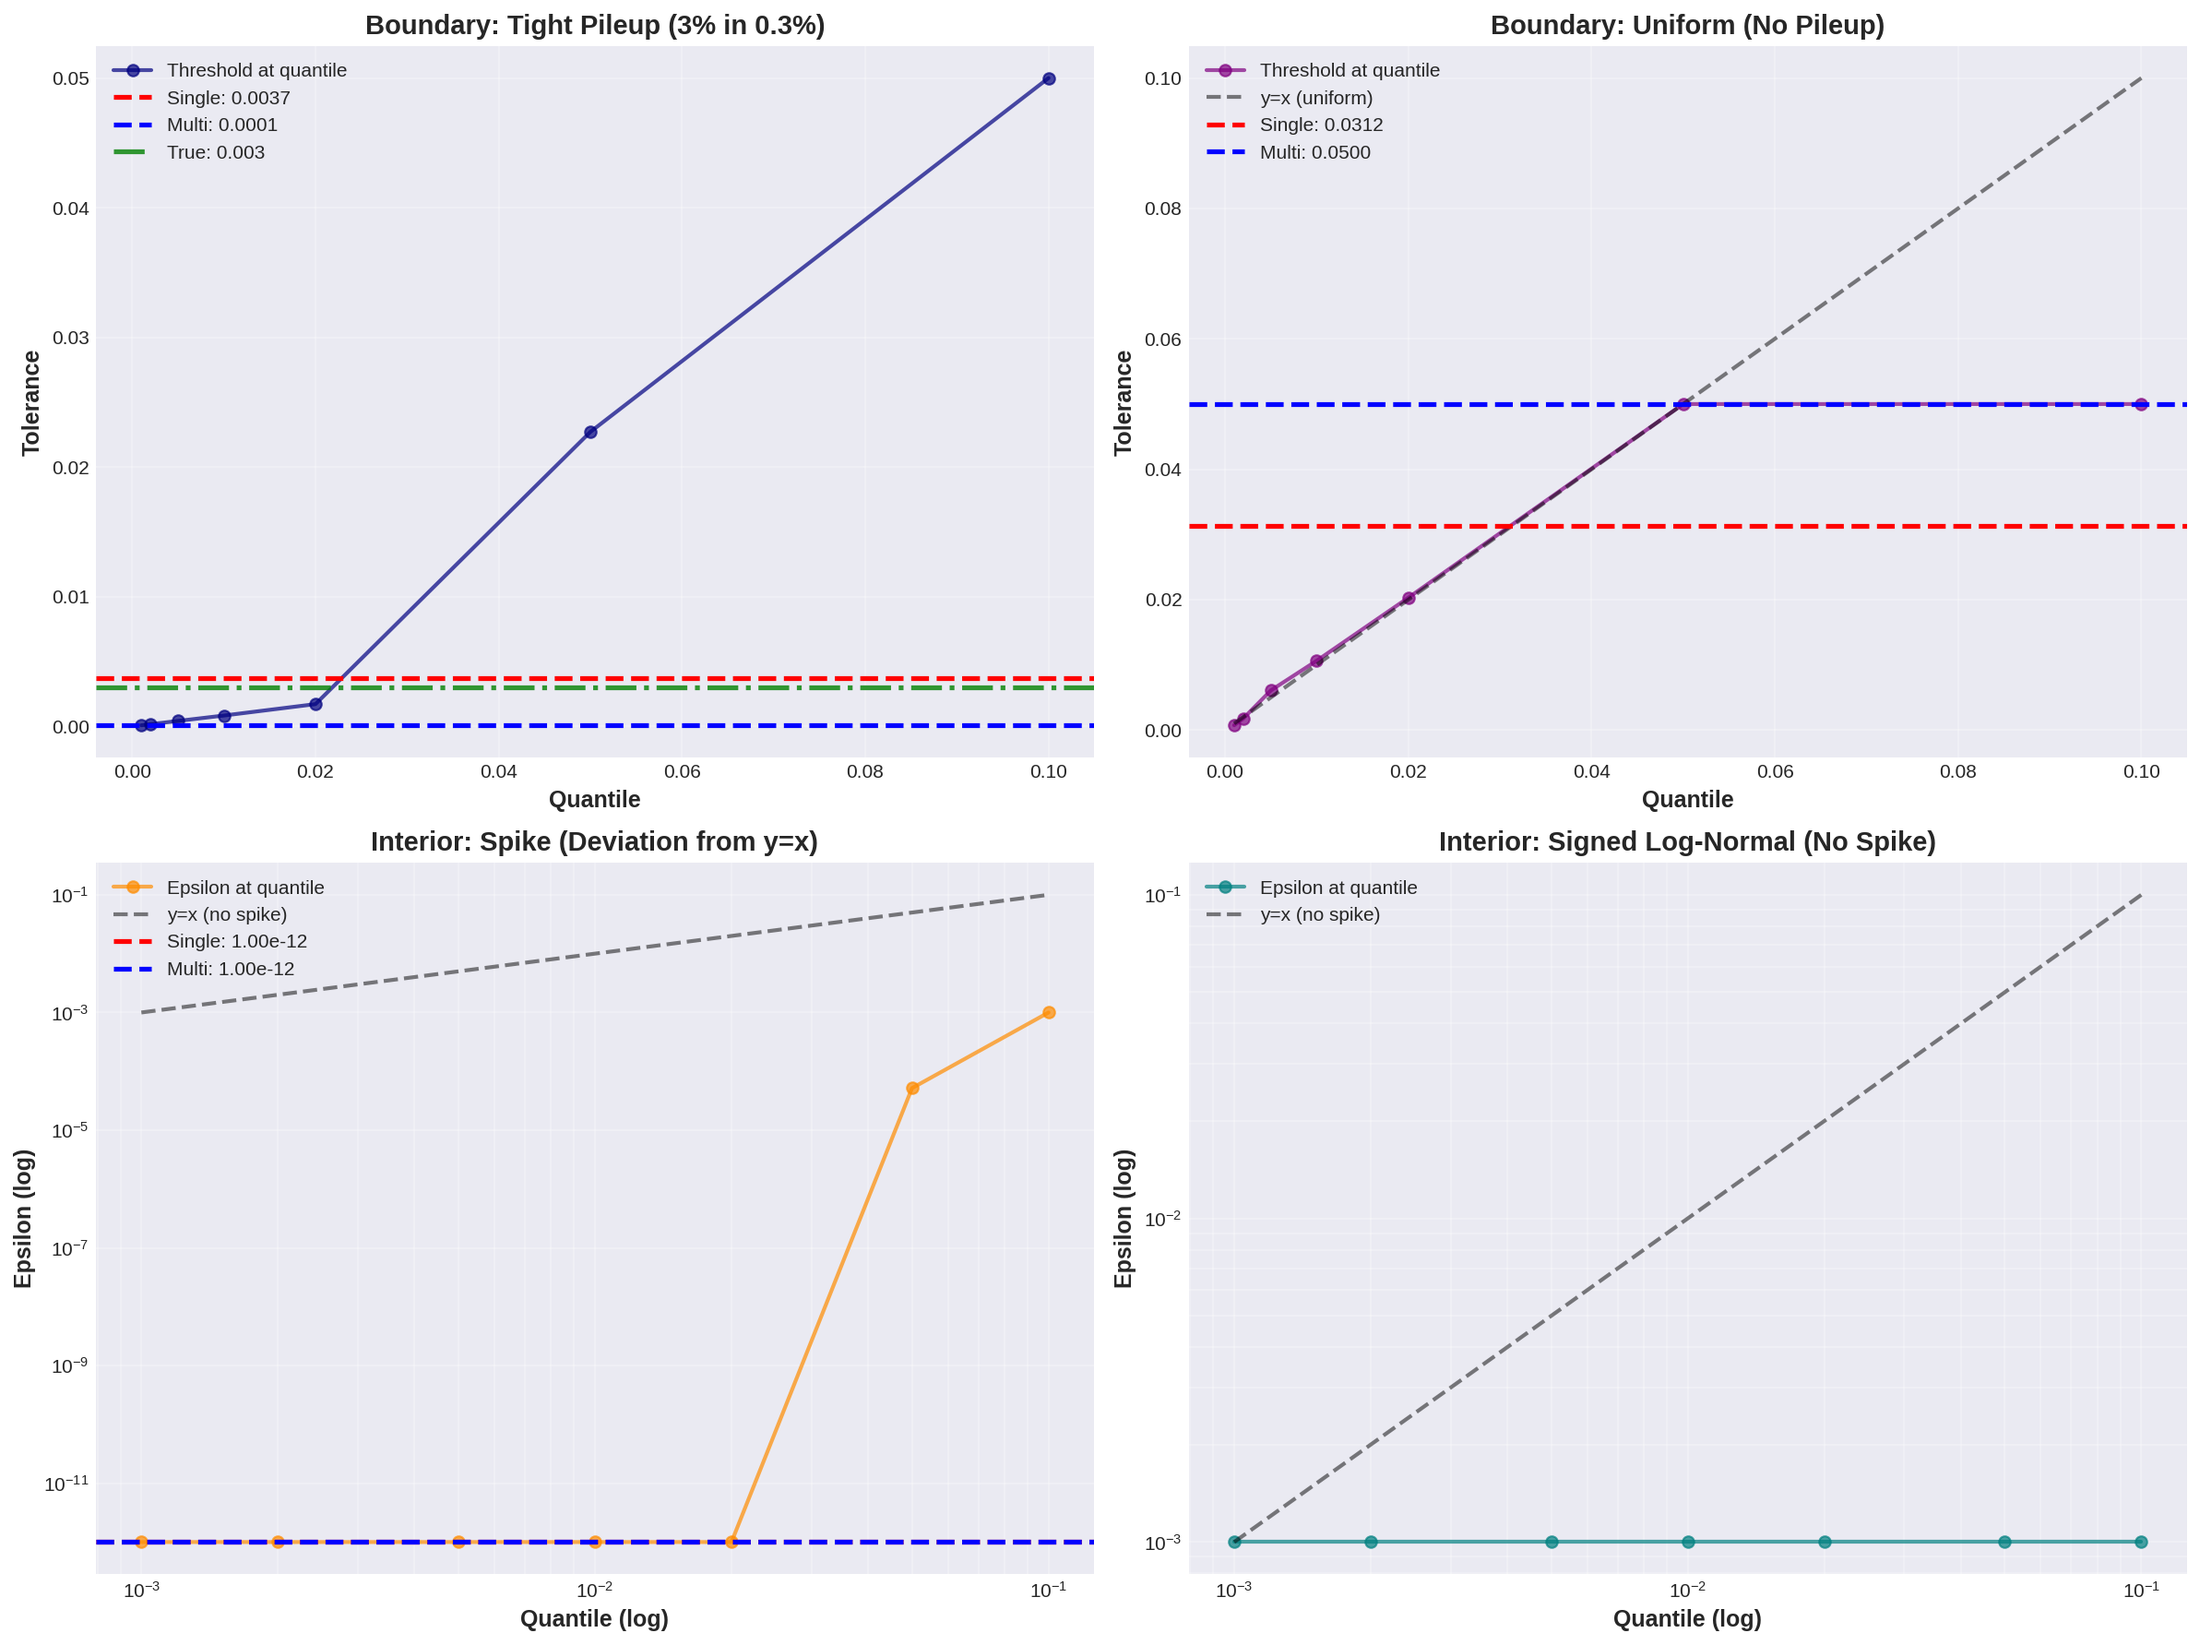
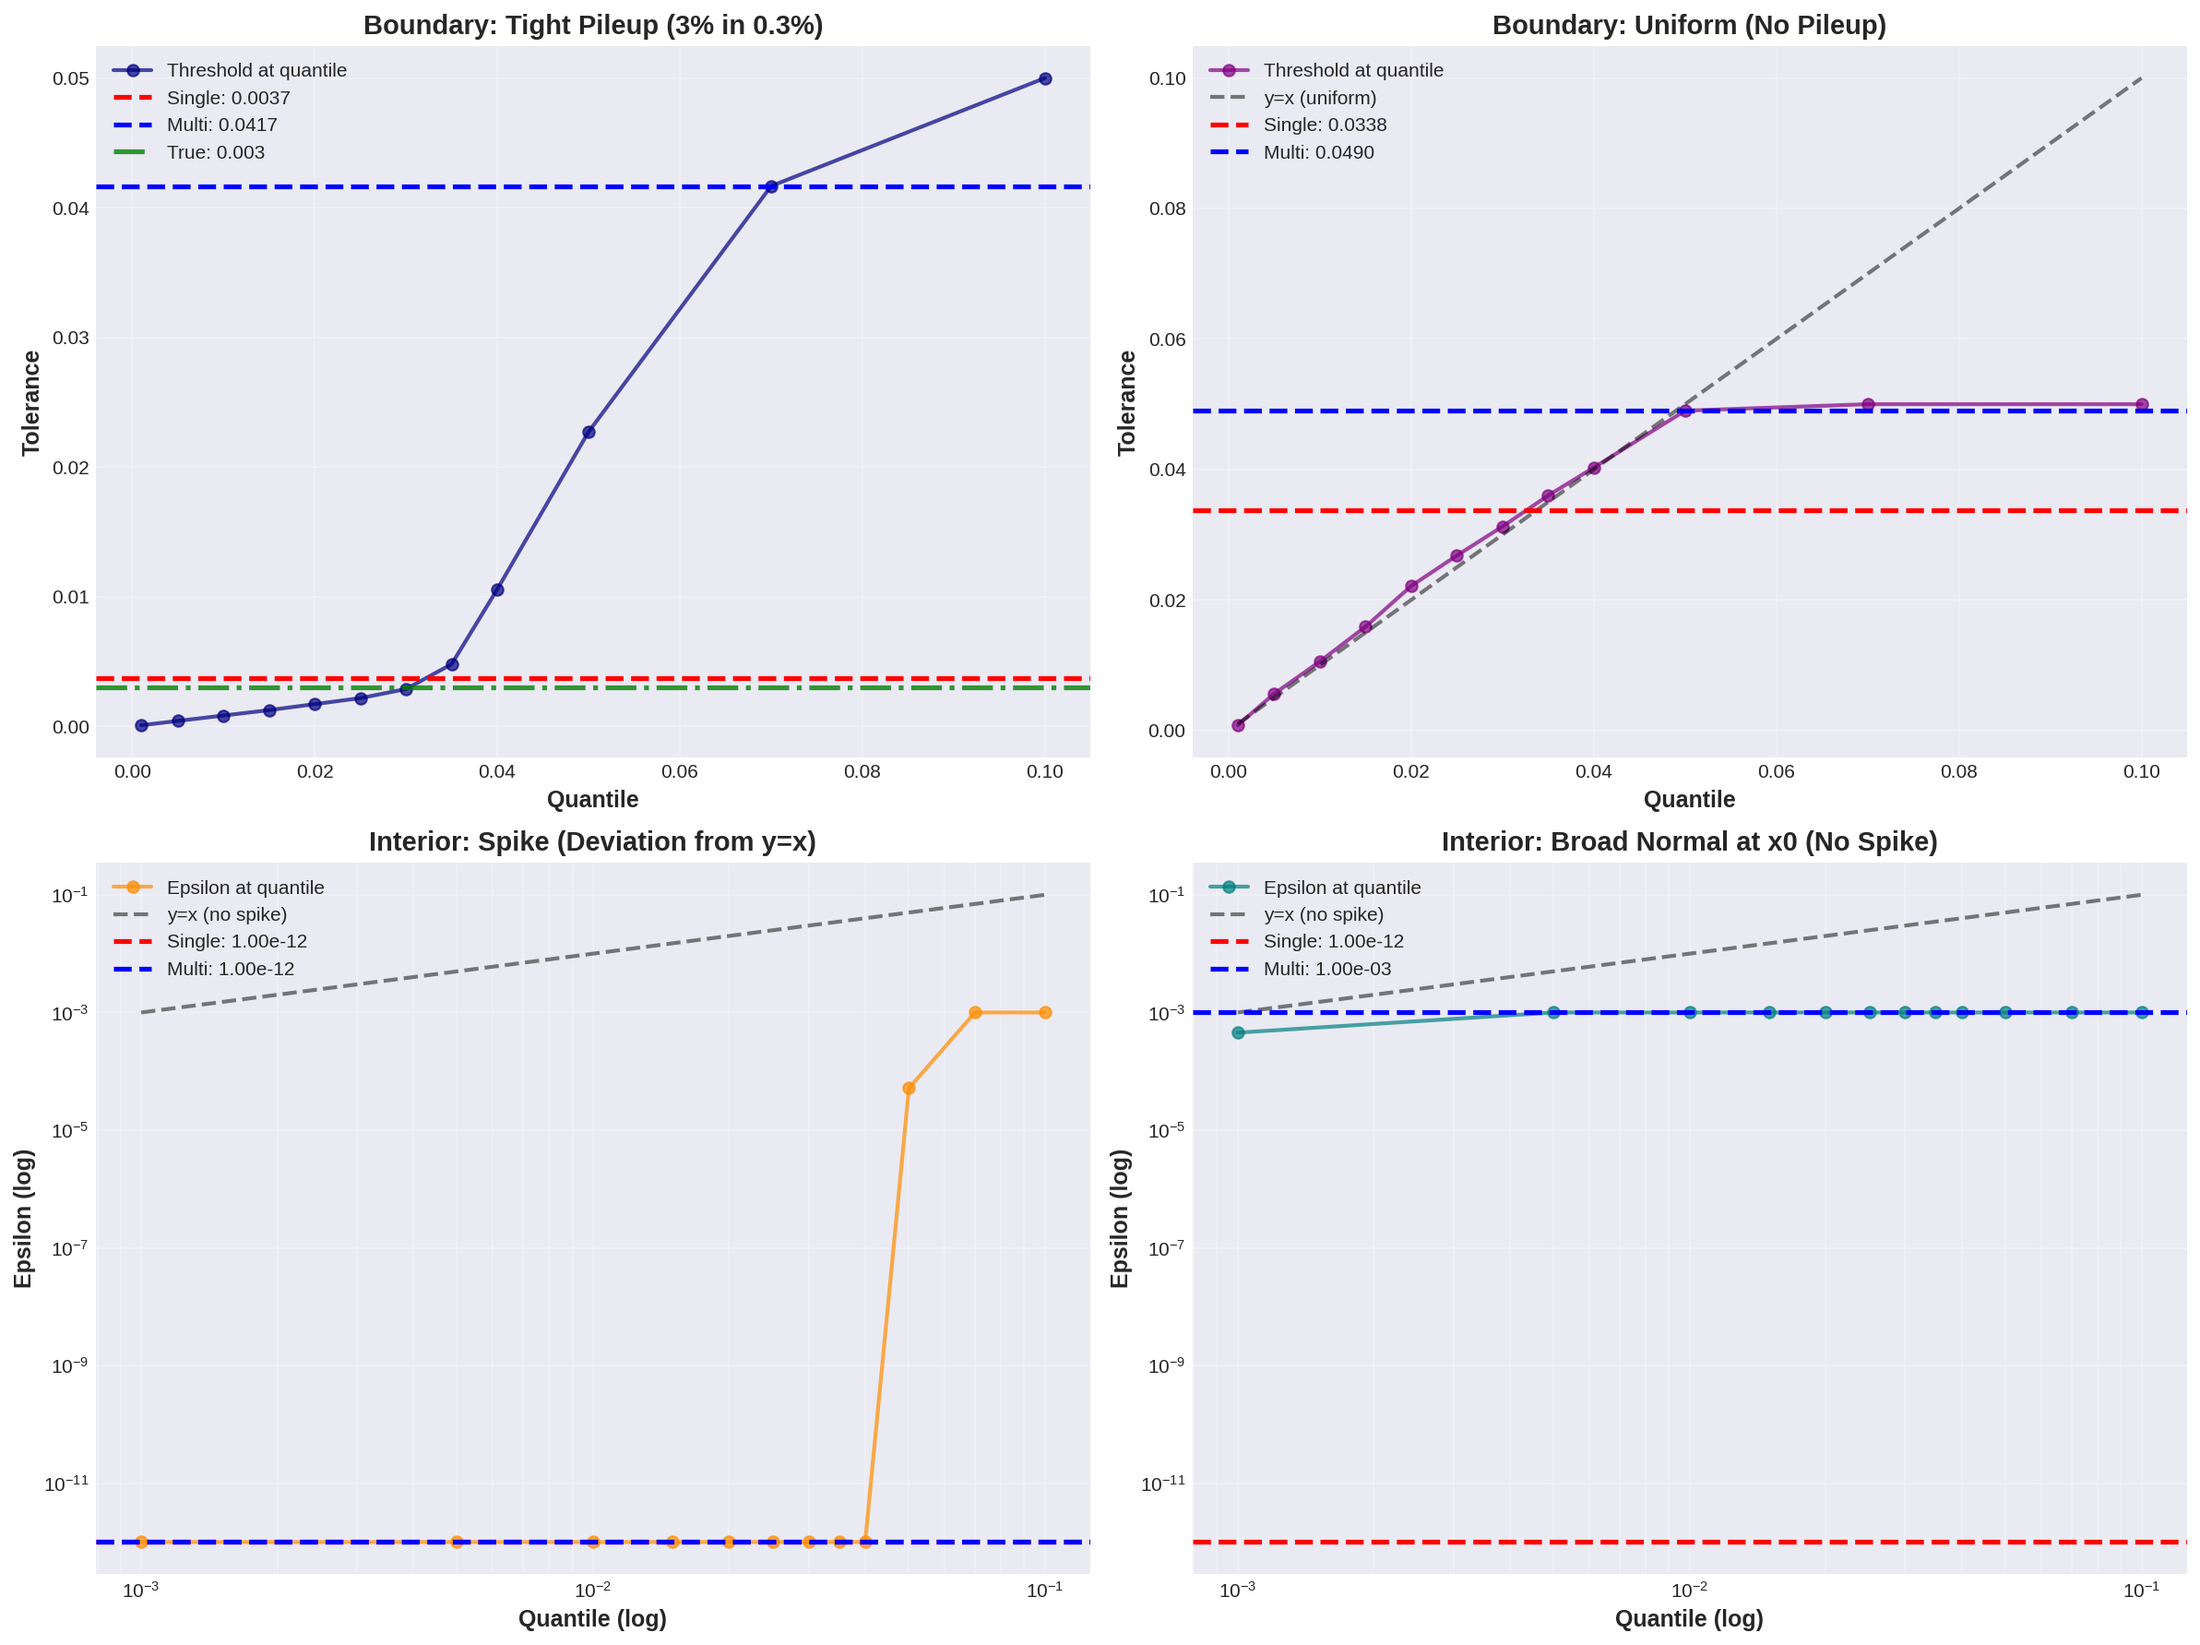
chore(validation): quantile-based threshold approach fails validation
Fixed POC bugs and re-validated multi-curve quantile approach:
- Fixed quantile grid density (12 points vs 7, covering structural breaks)
- Fixed broad normal test case (centered at x0, not bimodal)
- Added distribution visualization sanity checks

Results: 2/4 tests pass, approach fundamentally flawed
- ✓ Uniform control: ratio=0.956 ≈ 1.0 (PASS)
- ✓ Interior spike: ratio=2.110e-03 << 1 (PASS)
- ✗ Tight pileup: multi-curve 55× worse than single (3.87% vs 0.07% error)
- ✗ Broad pileup: multi-curve 2.2× worse (4.97% vs 2.25% error)
- ✗ Broad normal: ratio=0.087 fails classification threshold

Root cause: Elbow in (quantile, threshold) space doesn't map to pileup
width. Recommendation: DO NOT PROCEED with this approach.

diff --git a/notebooks/validate_quantile_approach.py b/notebooks/validate_quantile_approach.py
@@ -63,7 +63,8 @@ Tests for detecting boundary pileup using quantile analysis.
 
 # %% Common boundary test configuration
 GRID_BOUNDARY = np.linspace(0.0, 0.05, 41)
-QUANTILE_GRID = np.array([0.001, 0.002, 0.005, 0.01, 0.02, 0.05, 0.10])
+# FIXED: Denser quantile grid to capture 3% pileup structural break
+QUANTILE_GRID = np.array([0.001, 0.005, 0.01, 0.015, 0.02, 0.025, 0.03, 0.035, 0.04, 0.05, 0.07, 0.10])
 LOG_SPACE_BOUNDARY = False
 
 print("="*100)
@@ -73,11 +74,12 @@ print(f"Grid: {len(GRID_BOUNDARY)} points from {GRID_BOUNDARY[0]:.4f} to {GRID_B
 print(f"Quantile grid: {QUANTILE_GRID}")
 print()
 
-# %% Scenario 1: Boundary Tight Pileup (3% in 0.3%)
+# %% Sanity Check: Visualize boundary distributions
 print("\n" + "="*100)
-print("SCENARIO 1: Boundary Tight Pileup (3% in 0.3% of range)")
+print("SANITY CHECK: Visualizing test data distributions")
 print("="*100)
 
+# Generate all test data first
 x_tight = generate_with_boundary_pileup(
     n=10000, L=0.0, U=1.0,
     lower_pileup_frac=0.03,
@@ -85,6 +87,52 @@ x_tight = generate_with_boundary_pileup(
     seed=42
 )
 u_tight = compute_u(x_tight, L=0.0, U=1.0)
+
+x_uniform = np.random.uniform(0.0, 1.0, 10000)
+u_uniform = compute_u(x_uniform, L=0.0, U=1.0)
+
+x_broad = generate_with_boundary_pileup(
+    n=10000, L=0.0, U=1.0,
+    lower_pileup_frac=0.10,
+    pileup_width=0.05,
+    seed=42
+)
+u_broad = compute_u(x_broad, L=0.0, U=1.0)
+
+# Quick histogram sanity check
+fig_sanity, axes_sanity = plt.subplots(1, 3, figsize=(15, 4))
+
+axes_sanity[0].hist(u_tight, bins=50, alpha=0.7, color='navy', edgecolor='black')
+axes_sanity[0].axvline(0.003, color='red', ls='--', linewidth=2, label='True pileup width')
+axes_sanity[0].set_xlabel('u (normalized position)')
+axes_sanity[0].set_ylabel('Count')
+axes_sanity[0].set_title('Tight Pileup: 3% in [0, 0.003]')
+axes_sanity[0].legend()
+axes_sanity[0].set_xlim(-0.01, 0.1)
+
+axes_sanity[1].hist(u_uniform, bins=50, alpha=0.7, color='purple', edgecolor='black')
+axes_sanity[1].set_xlabel('u (normalized position)')
+axes_sanity[1].set_title('Uniform: Should be flat')
+axes_sanity[1].set_xlim(0, 1)
+
+axes_sanity[2].hist(u_broad, bins=50, alpha=0.7, color='darkgreen', edgecolor='black')
+axes_sanity[2].axvline(0.05, color='red', ls='--', linewidth=2, label='True pileup width')
+axes_sanity[2].set_xlabel('u (normalized position)')
+axes_sanity[2].set_title('Broad Pileup: 10% in [0, 0.05]')
+axes_sanity[2].legend()
+axes_sanity[2].set_xlim(-0.01, 0.2)
+
+plt.tight_layout()
+plt.savefig('/home/user/fitqc/tmp/boundary_sanity_check.png', dpi=150)
+plt.show()
+
+print("Boundary distributions look correct. Proceeding with tests...\n")
+
+# %% Scenario 1: Boundary Tight Pileup (3% in 0.3%)
+print("\n" + "="*100)
+print("SCENARIO 1: Boundary Tight Pileup (3% in 0.3% of range)")
+print("="*100)
+
 u_tight_sorted = np.sort(u_tight)
 
 true_threshold_tight = 0.003
@@ -126,9 +174,6 @@ print("\n" + "="*100)
 print("SCENARIO 2: Boundary Uniform (No Pileup)")
 print("="*100)
 
-np.random.seed(42)
-x_uniform = np.random.uniform(0.0, 1.0, 10000)
-u_uniform = compute_u(x_uniform, L=0.0, U=1.0)
 u_uniform_sorted = np.sort(u_uniform)
 
 result_uniform = compare_single_vs_multi_curve(
@@ -163,13 +208,6 @@ print("\n" + "="*100)
 print("SCENARIO 3: Boundary Broad Pileup (10% in 5% of range)")
 print("="*100)
 
-x_broad = generate_with_boundary_pileup(
-    n=10000, L=0.0, U=1.0,
-    lower_pileup_frac=0.10,
-    pileup_width=0.05,
-    seed=42
-)
-u_broad = compute_u(x_broad, L=0.0, U=1.0)
 u_broad_sorted = np.sort(u_broad)
 
 true_threshold_broad = 0.05
@@ -214,17 +252,59 @@ print(f"Grid: {len(GRID_INTERIOR)} points from 10^-12 to 10^-3 (log-spaced)")
 print(f"Quantile grid: {QUANTILE_GRID}")
 print()
 
-# %% Scenario 4: Interior Tight Spike (5% at x0)
+# %% Sanity Check: Visualize interior distributions
 print("\n" + "="*100)
-print("SCENARIO 4: Interior Tight Spike (5% at x0)")
+print("SANITY CHECK: Visualizing interior test data distributions")
 print("="*100)
 
+# Generate interior test data
 x_spike = generate_with_x0_spike(
     n=10000, x0=5.0, L=0.0, U=10.0,
     spike_frac=0.05,
     seed=42
 )
 z_spike = compute_z(x_spike, x0=5.0, L=0.0, U=10.0)
+
+np.random.seed(42)
+x0_broad = 5.0
+L_broad = 0.0
+U_broad = 10.0
+x_broad_normal = np.random.normal(loc=x0_broad, scale=1.5, size=10000)
+x_broad_normal = np.clip(x_broad_normal, L_broad, U_broad)
+z_broad = compute_z(x_broad_normal, x0=x0_broad, L=L_broad, U=U_broad)
+
+# Visualize z-distributions
+fig_sanity_int, axes_sanity_int = plt.subplots(1, 2, figsize=(12, 4))
+
+axes_sanity_int[0].hist(z_spike, bins=100, alpha=0.7, color='darkorange', edgecolor='black')
+axes_sanity_int[0].set_xlabel('z (distance from x0, normalized)')
+axes_sanity_int[0].set_ylabel('Count')
+axes_sanity_int[0].set_title('Spike: 5% exactly at x0 (z=0)')
+axes_sanity_int[0].set_xlim(-0.05, 0.5)
+axes_sanity_int[0].axvline(0, color='red', ls='--', linewidth=2, alpha=0.5, label='x0 (z=0)')
+axes_sanity_int[0].legend()
+
+axes_sanity_int[1].hist(z_broad, bins=100, alpha=0.7, color='teal', edgecolor='black')
+axes_sanity_int[1].set_xlabel('z (distance from x0, normalized)')
+axes_sanity_int[1].set_title('Broad Normal: Centered at x0, sigma=1.5')
+axes_sanity_int[1].set_xlim(-0.05, 0.5)
+axes_sanity_int[1].axvline(0, color='red', ls='--', linewidth=2, alpha=0.5, label='x0 (z=0)')
+axes_sanity_int[1].legend()
+
+plt.tight_layout()
+plt.savefig('/home/user/fitqc/tmp/interior_sanity_check.png', dpi=150)
+plt.show()
+
+print("Interior distributions look correct.")
+print(f"  Spike: {100*np.sum(z_spike < 1e-10)/len(z_spike):.1f}% of samples have z < 1e-10")
+print(f"  Broad: {100*np.sum(z_broad < 1e-10)/len(z_broad):.1f}% of samples have z < 1e-10")
+print("Proceeding with tests...\n")
+
+# %% Scenario 4: Interior Tight Spike (5% at x0)
+print("\n" + "="*100)
+print("SCENARIO 4: Interior Tight Spike (5% at x0)")
+print("="*100)
+
 z_spike_sorted = np.sort(z_spike)
 
 result_spike = compare_single_vs_multi_curve(
@@ -256,24 +336,19 @@ if mean_ratio_spike < 0.1:
 else:
     print(f"\n✗ Mean ratio {mean_ratio_spike:.3e} not << 1")
 
-# %% Scenario 5: Interior Signed Log-Normal (Broad, NOT a Spike)
+# %% Scenario 5: Interior Broad Normal (Broad, NOT a Spike)
 print("\n" + "="*100)
-print("SCENARIO 5: Interior Signed Log-Normal (BROAD, NOT a spike)")
+print("SCENARIO 5: Interior Broad Normal at x0 (BROAD, NOT a spike)")
 print("="*100)
 
-x_lognorm_raw = generate_signed_lognormal(n=10000, mu=-2, sigma=1.5, seed=42)
-x_min, x_max = x_lognorm_raw.min(), x_lognorm_raw.max()
-x_lognorm = (x_lognorm_raw - x_min) / (x_max - x_min)
-x0_lognorm = 0.5
-z_lognorm = compute_z(x_lognorm, x0=x0_lognorm, L=0.0, U=1.0)
-z_lognorm_sorted = np.sort(z_lognorm)
+z_lognorm_sorted = np.sort(z_broad)
 
 result_lognorm = compare_single_vs_multi_curve(
     z_lognorm_sorted, GRID_INTERIOR, QUANTILE_GRID,
     log_space=LOG_SPACE_INTERIOR, true_threshold=None
 )
 
-print(f"\nData: n={len(z_lognorm)}, signed log-normal (broad)")
+print(f"\nData: n={len(z_lognorm_sorted)}, broad normal at x0={x0_broad}, sigma=1.5")
 single_str_ln = f"{result_lognorm['single_curve_elbow']:.2e}" if result_lognorm['single_curve_elbow'] else "None"
 multi_str_ln = f"{result_lognorm['multi_curve_elbow']:.2e}" if result_lognorm['multi_curve_elbow'] else "None"
 print(f"\nSingle-curve elbow: {single_str_ln}")
@@ -363,7 +438,7 @@ ax.set_title('Interior: Spike (Deviation from y=x)', fontsize=14, fontweight='bo
 ax.legend(fontsize=10)
 ax.grid(True, alpha=0.3, which='both')
 
-# Plot 4: Interior Signed Log-Normal
+# Plot 4: Interior Broad Normal
 ax = axes[1, 1]
 threshold_log = result_lognorm['diagnostics']['threshold_at_quantile'][:len(quantile_log)]
 ax.loglog(quantile_log, threshold_log,
@@ -381,7 +456,7 @@ if result_lognorm['multi_curve_elbow'] is not None:
                linewidth=2.5, label=f"Multi: {multi_eps:.2e}")
 ax.set_xlabel('Quantile (log)', fontsize=12, fontweight='bold')
 ax.set_ylabel('Epsilon (log)', fontsize=12, fontweight='bold')
-ax.set_title('Interior: Signed Log-Normal (No Spike)', fontsize=14, fontweight='bold')
+ax.set_title('Interior: Broad Normal at x0 (No Spike)', fontsize=14, fontweight='bold')
 ax.legend(fontsize=10)
 ax.grid(True, alpha=0.3, which='both')
 
@@ -428,7 +503,7 @@ table_rows = [
      None,
      "N/A", "N/A"),
 
-    ("Interior Log-Normal",
+    ("Interior Broad Normal",
      result_lognorm['single_curve_elbow'],
      np.interp(result_lognorm['multi_curve_elbow'], QUANTILE_GRID,
                result_lognorm['diagnostics']['threshold_at_quantile']) if result_lognorm['multi_curve_elbow'] else None,
@@ -475,11 +550,11 @@ if mean_ratio_spike < 0.1:
 else:
     print(f"3. Interior spike: WARNING (ratio={mean_ratio_spike:.3e} not << 1)")
 
-# Interior log-normal
+# Interior broad normal
 if mean_ratio_lognorm > 0.5:
-    print(f"4. Signed log-normal: PASS (ratio={mean_ratio_lognorm:.3e} > 0.5, correctly NOT flagged)")
+    print(f"4. Broad normal at x0: PASS (ratio={mean_ratio_lognorm:.3e} > 0.5, correctly NOT flagged)")
 else:
-    print(f"4. Signed log-normal: FAIL (ratio={mean_ratio_lognorm:.3e} < 0.5, would misclassify!)")
+    print(f"4. Broad normal at x0: FAIL (ratio={mean_ratio_lognorm:.3e} < 0.5, would misclassify!)")
 
 print("\nRecommendation:")
 print("-"*120)
